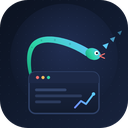
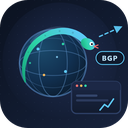
assets: 徽标重绘——加入地球网络与 BGP 标识
- 地球经纬网格 + IP 点位：体现区域/全球 IP 网段来源
- Python 蛇绕过地球：自动化采集与注入
- 虚线宣告箭头 + BGP 标签：BGP 会话与路由宣告
- 控制台窗口：WebUI
- favicon 同步为地球+蛇的简化版（内联 data URI）

diff --git a/v6/index.html b/v6/index.html
@@ -4,7 +4,7 @@
 <meta charset="UTF-8">
 <meta name="viewport" content="width=device-width, initial-scale=1.0">
 <title>ExaBGP 控制台</title>
[2 lines of base64/hex data omitted]
 <style>
   :root{
     --bg:#0c1322; --panel:#131c30; --panel2:#0f1728; --border:#243354; --text:#dbe4f5;

diff --git a/README.md b/README.md
@@ -172,4 +172,4 @@ docker run -d --name exabgp-v6 --network host \
 
 ---
 
-<sub>图标：`assets/icon.svg`（Python 蛇 + Web 控制台 + BGP 路由宣告），可直接用于文档、镜像标注与 favicon。</sub>
+<sub>图标说明：地球经纬网格（区域 / 全球 IP 网络）+ Python 蛇（自动化采集）+ 虚线宣告箭头与 `BGP` 会话标签（把路由播给 CE）+ 控制台窗口（WebUI）。源文件 `assets/icon.svg`，可直接用于文档、镜像标注与 favicon。</sub>
